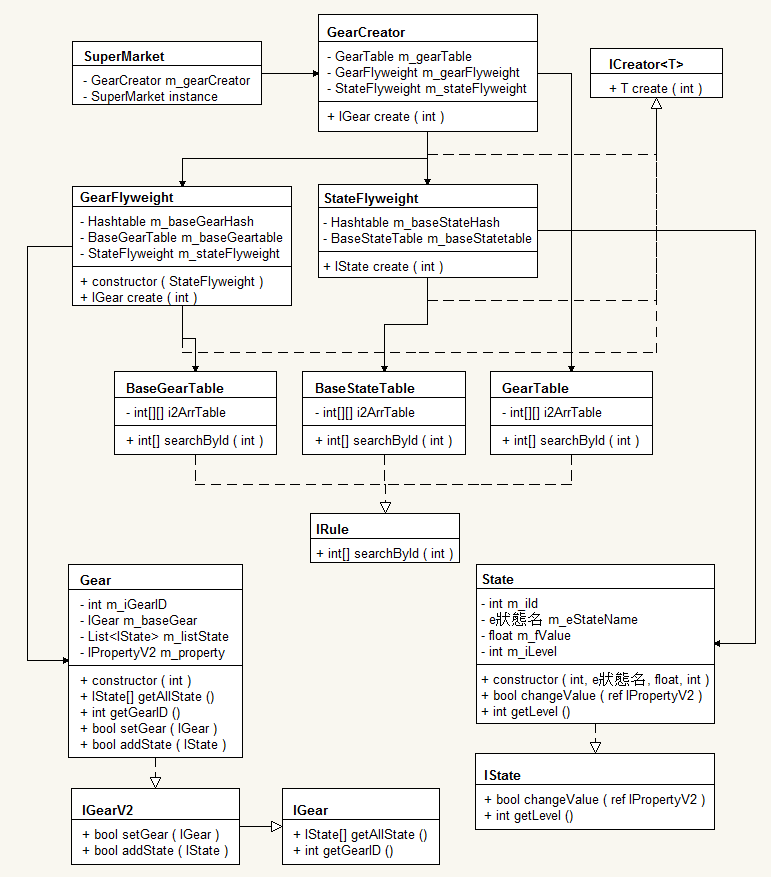
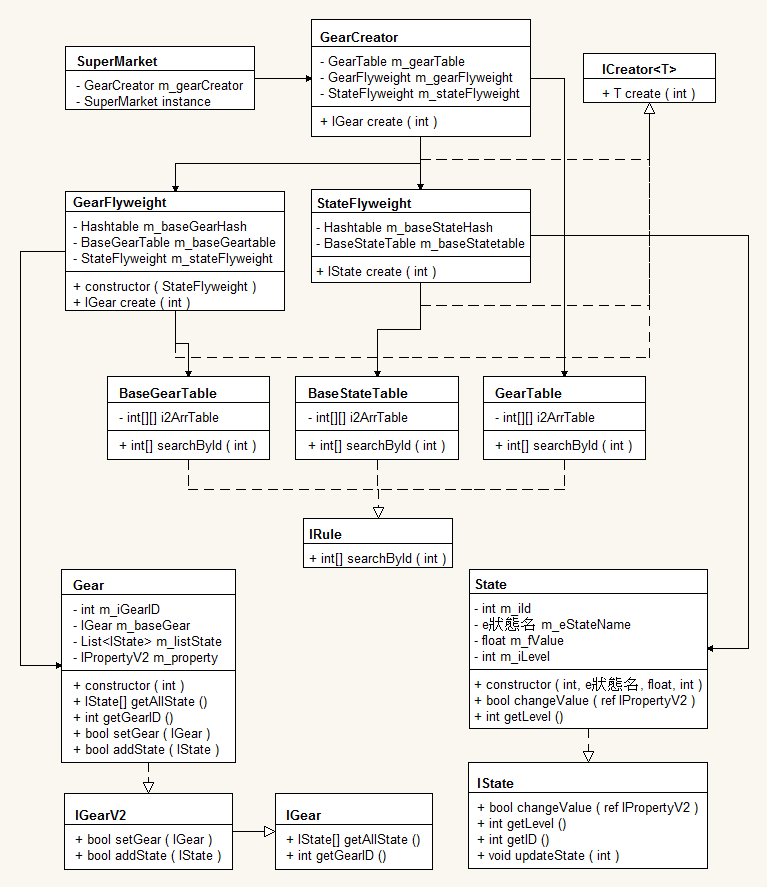
增加 updateState，更新架構圖

diff --git a/GearSystem/GearExporters/State.cs b/GearSystem/GearExporters/State.cs
@@ -33,5 +33,11 @@ namespace GearSystem
         {
             return m_iId;
         }
+
+        public void updateState(int _iUpdateUnit)
+        {
+            // 查婊 然後變動 m_fValue，尚未實作
+            throw new NotImplementedException();
+        }
     }
 }

diff --git a/GearSystem/Interface/IState.cs b/GearSystem/Interface/IState.cs
@@ -5,5 +5,6 @@
         bool changeValue(ref IPropertyV2 _Property);
         int getLevel();
         int getID();
+        void updateState(int _iUpdateUnit);
     }
 }
